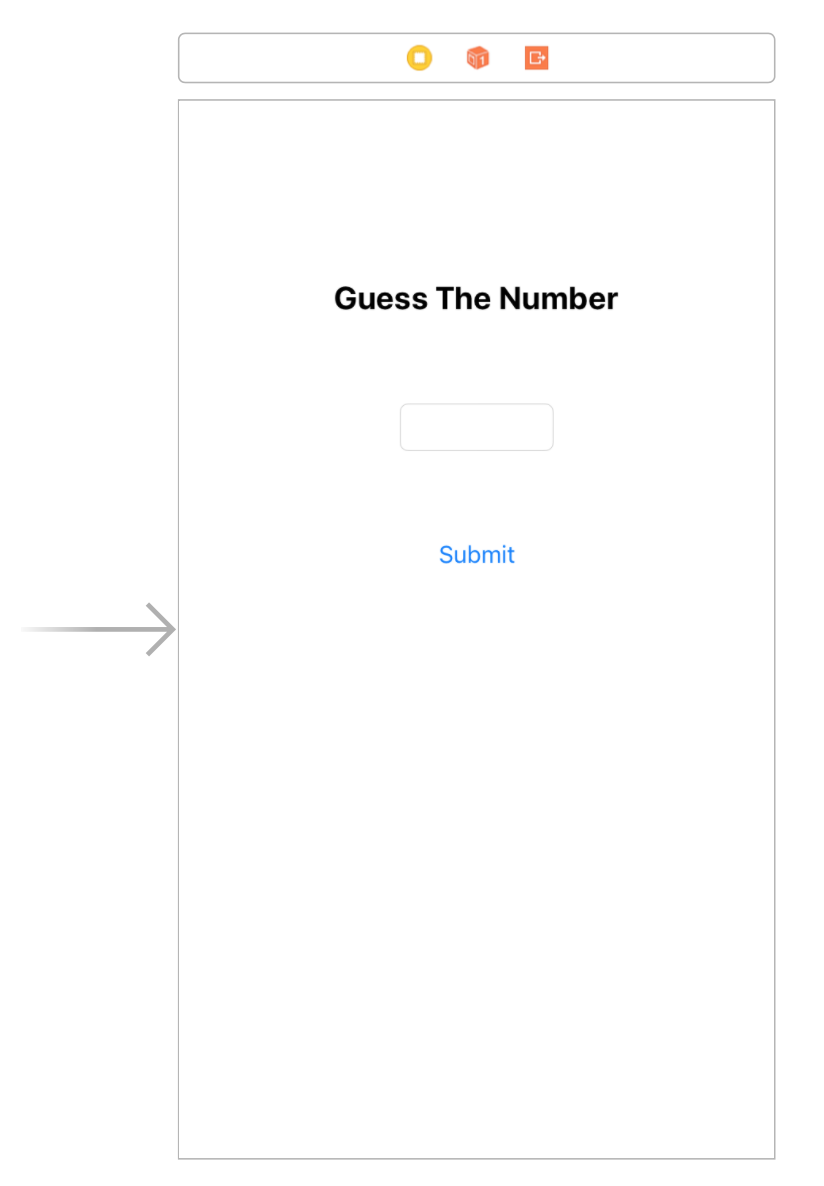
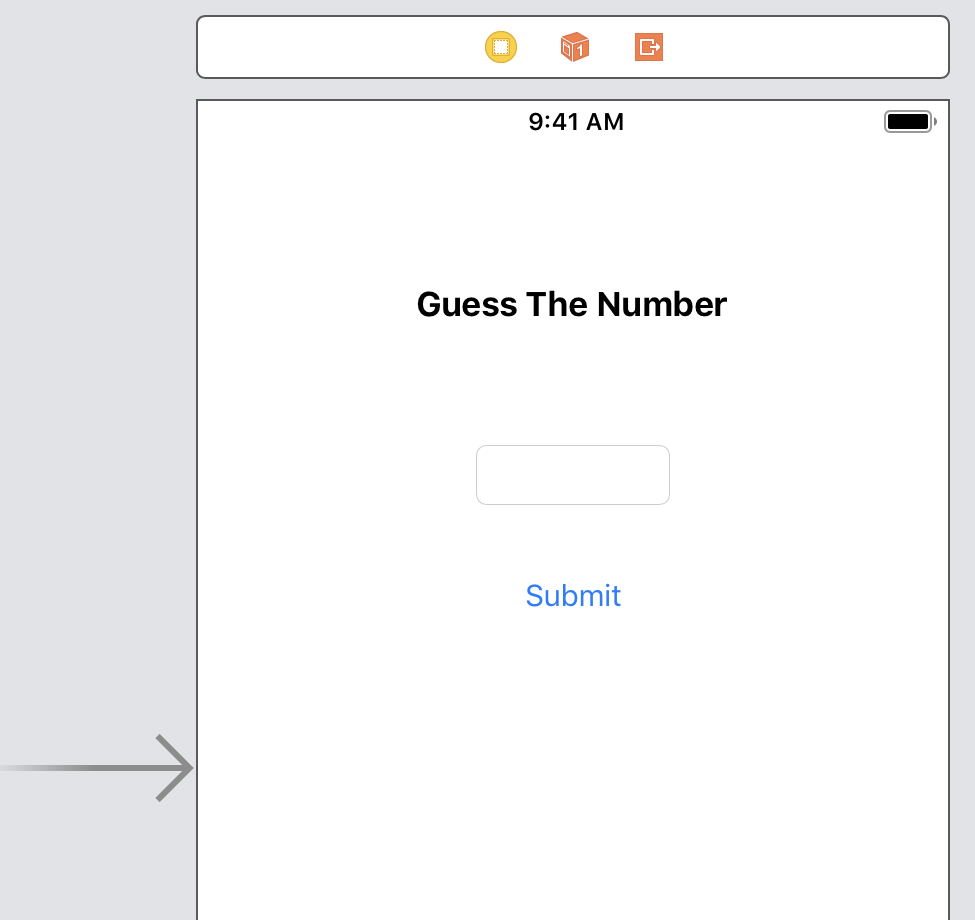
Add more Dark Mode screenshots.

diff --git a/tutorials/guess-the-number/part2.md b/tutorials/guess-the-number/part2.md
@@ -27,6 +27,17 @@ permalink: /guess-the-number-part-2/
             content:url("../images/guess-the-number/dragLabel-dark.png");
         }
 
+        #editLabel {
+            content:url("../images/guess-the-number/editLabel-dark.png");
+        }
+
+        #finalLayout {
+            content:url("../images/guess-the-number/finalLayout-dark.png");
+        }
+
+        #selectSimulatorPlay {
+            content:url("../images/guess-the-number/selectSimulatorPlay-dark.png");
+        }
     }
 </style>
 
@@ -70,17 +81,17 @@ You can drag components from the UI Palette into your View Controller. Go ahead 
 
 Voila! There is a label now on your screen! You can actually customize the label by clicking on it and going to the **Attributes tab** on the right of the screen:
 
-<p align="center"> <img src="../images/guess-the-number/editLabel.png" align="center" style="max-width:75%"> </p>
+<p align="center"> <img id="editLabel" src="../images/guess-the-number/editLabel.png" align="center" style="max-width:75%"> </p>
 
 Here at the Attributes tab, you can edit the text of your label, the color, the font, the size, and many more! For this tutorial, edit the text of the label so that it reads `Guess the Number`.
 
 Now, in order to actually input a guess, you will need a `Text Field`, and you will also need a `Button` in order to submit your guess. From the UI Palette, drag a `Button` and `Text Field` to your screen. Also edit the textfield and the button in any way you want. For this tutorial, edit all the features in the view so that it looks like this:
 
-<p align="center"> <img src="../images/guess-the-number/finalLayout.png" align="center" style="max-width: 325px !important"> </p>
+<p align="center"> <img id="finalLayout" src="../images/guess-the-number/finalLayout.png" align="center" style="max-width: 325px !important"> </p>
 
 Awesome! Now we have our view! If you run the application on the simulator, then you should be able to see the image above as the final layout on your phone! On the top left of XCode, **select iPhone X or iPhone 8 Plus** in the device/simulator dropdown and then press the **Play Button**.
 
-<p align="center"> <img src="../images/guess-the-number/selectSimulatorPlay.png" align="center" style="max-width: 75%"> </p>
+<p align="center"> <img id="selectSimulatorPlay" src="../images/guess-the-number/selectSimulatorPlay.png" align="center" style="max-width: 75%"> </p>
 
 <p align="center"> <img src="../images/guess-the-number/simulatorView.png" align="center" style="max-width: 325px !important"> </p>
 
